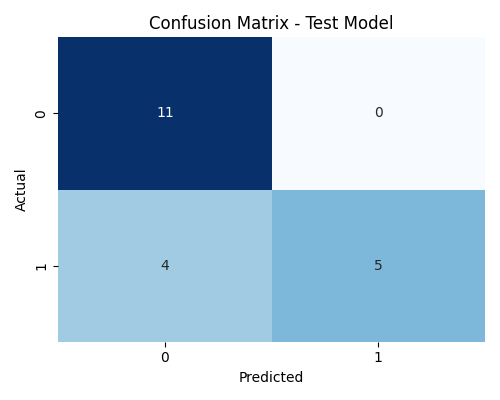
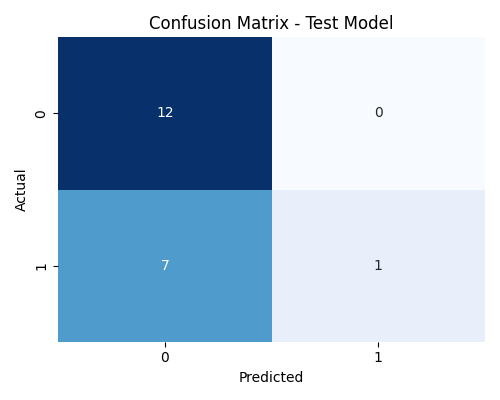
Add SMOTE pipeline

diff --git a/src/models.py b/src/models.py
@@ -1,48 +1,50 @@
 from sklearn.linear_model import LogisticRegression
 from sklearn.ensemble import RandomForestClassifier
 from xgboost import XGBClassifier
+from imblearn.over_sampling import SMOTE
+from imblearn.pipeline import Pipeline as ImbPipeline
 import numpy as np
 
 def train_models(X_train, y_train):
     """
-    Initializes and trains the three required models:
-    1. Logistic Regression (Baseline)
-    2. Random Forest (Ensemble)
-    3. XGBoost (Gradient Boosting)
-    
-    Handles class imbalance using 'class_weight' parameters
+    Initializes and trains the models, including handling class imbalance via:
+    1. Class Weights (for LR, RF, XGB)
+    2. SMOTE (Synthetic Minority Over-sampling Technique)
     """
     print("\n[Model Training] Initializing models...")
     
     models = {}
 
-    # --- Model 1: Logistic Regression (Baseline) ---
-    # class_weight='balanced': Automatically adjusts weights inversely proportional to class frequencies
-    # max_iter=1000: Ensures the solver converges
-    print("Training Logistic Regression...")
-    lr = LogisticRegression(class_weight='balanced', random_state=42, max_iter=1000)
-    lr.fit(X_train, y_train)
-    models['Logistic Regression'] = lr
+    # --- Model 1: Logistic Regression (Method A: Class Weights) ---
+    print("Training Logistic Regression (Balanced Weights)...")
+    lr_balanced = LogisticRegression(class_weight='balanced', random_state=42, max_iter=1000)
+    lr_balanced.fit(X_train, y_train)
+    models['Logistic Regression (Balanced)'] = lr_balanced
 
-    # --- Model 2: Random Forest ---
-    # class_weight='balanced': Penalizes mistakes on the minority class (defaults) more heavily
-    # n_estimators=100: Standard number of trees
+    # --- Model 2: Logistic Regression (Method B: SMOTE) ---
+    print("Training Logistic Regression (SMOTE)...")
+    pipeline_smote = ImbPipeline([
+        ('smote', SMOTE(random_state=42)),
+        ('model', LogisticRegression(random_state=42, max_iter=1000))
+    ])
+    pipeline_smote.fit(X_train, y_train)
+    models['Logistic Regression (SMOTE)'] = pipeline_smote
+
+    # --- Model 3: Random Forest ---
     print("Training Random Forest...")
     rf = RandomForestClassifier(class_weight='balanced', n_estimators=100, random_state=42)
     rf.fit(X_train, y_train)
     models['Random Forest'] = rf
 
-    # --- Model 3: XGBoost ---
-    # scale_pos_weight: The XGBoost equivalent of class_weight
-    # Calculation: count(negative) / count(positive) ~ 700/300 = 2.33
-    # max_depth=3: Limits tree depth to prevent OVERFITTING
+    # --- Model 4: XGBoost ---
     print("Training XGBoost...")
+    # Calculate scale_pos_weight for XGBoost
     scale_pos_weight = (y_train == 0).sum() / (y_train == 1).sum()
     
     xgb = XGBClassifier(
         scale_pos_weight=scale_pos_weight,
         n_estimators=100,
-        max_depth=3,  # Conservative depth to avoid overfitting on small data (1000 rows)
+        max_depth=3,
         learning_rate=0.1,
         random_state=42,
         eval_metric='logloss'

diff --git a/tests/test_models.py b/tests/test_models.py
@@ -6,9 +6,9 @@ from src.models import train_models
 def test_train_models():
     """
     Tests if the model training pipeline works correctly.
-    It checks if the function returns a dictionary containing the 3 expected models.
+    It checks if the function returns a dictionary containing the 4 expected models.
     """
-    # 1. Create dummy training data (Scaled)
+    # 1. Create dummy training data 
     X_train = pd.DataFrame(np.random.rand(50, 10), columns=[f"col_{i}" for i in range(10)])
     y_train = pd.Series(np.random.choice([0, 1], 50))
 
@@ -19,13 +19,18 @@ def test_train_models():
     # Check if we got a dictionary
     assert isinstance(models, dict)
     
-    # Check if we have exactly 3 models
-    assert len(models) == 3
+    # Check if we have exactly 4 models (LR Balanced, LR SMOTE, RF, XGB)
+    assert len(models) == 4, f"Expected 4 models, got {len(models)}"
     
     # Check if specific model keys exist
-    expected_models = ['Logistic Regression', 'Random Forest', 'XGBoost']
+    expected_models = [
+        'Logistic Regression (Balanced)', 
+        'Logistic Regression (SMOTE)', 
+        'Random Forest', 
+        'XGBoost'
+    ]
     for name in expected_models:
-        assert name in models
+        assert name in models, f"Model {name} is missing from results"
         
     # Check if the models have been fitted (they should have a 'predict' method)
     for name, model in models.items():
